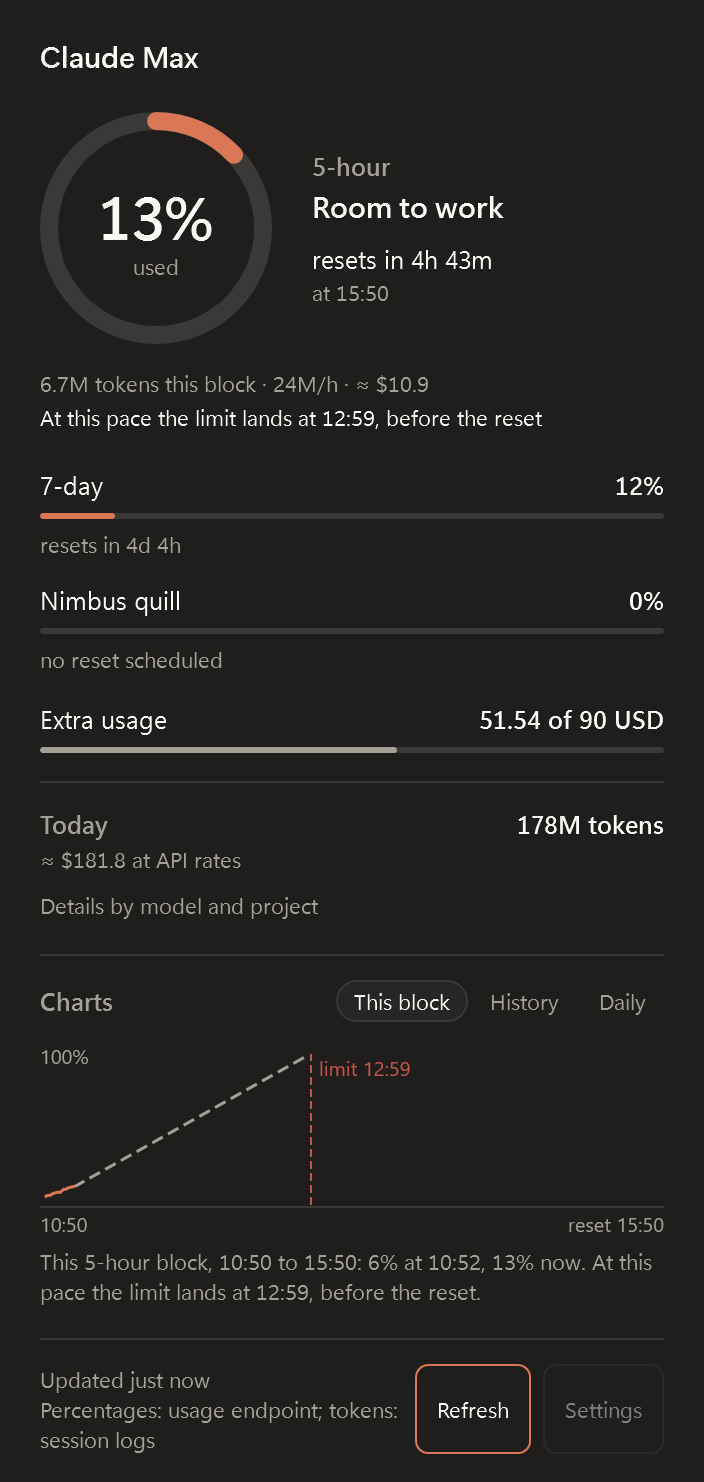
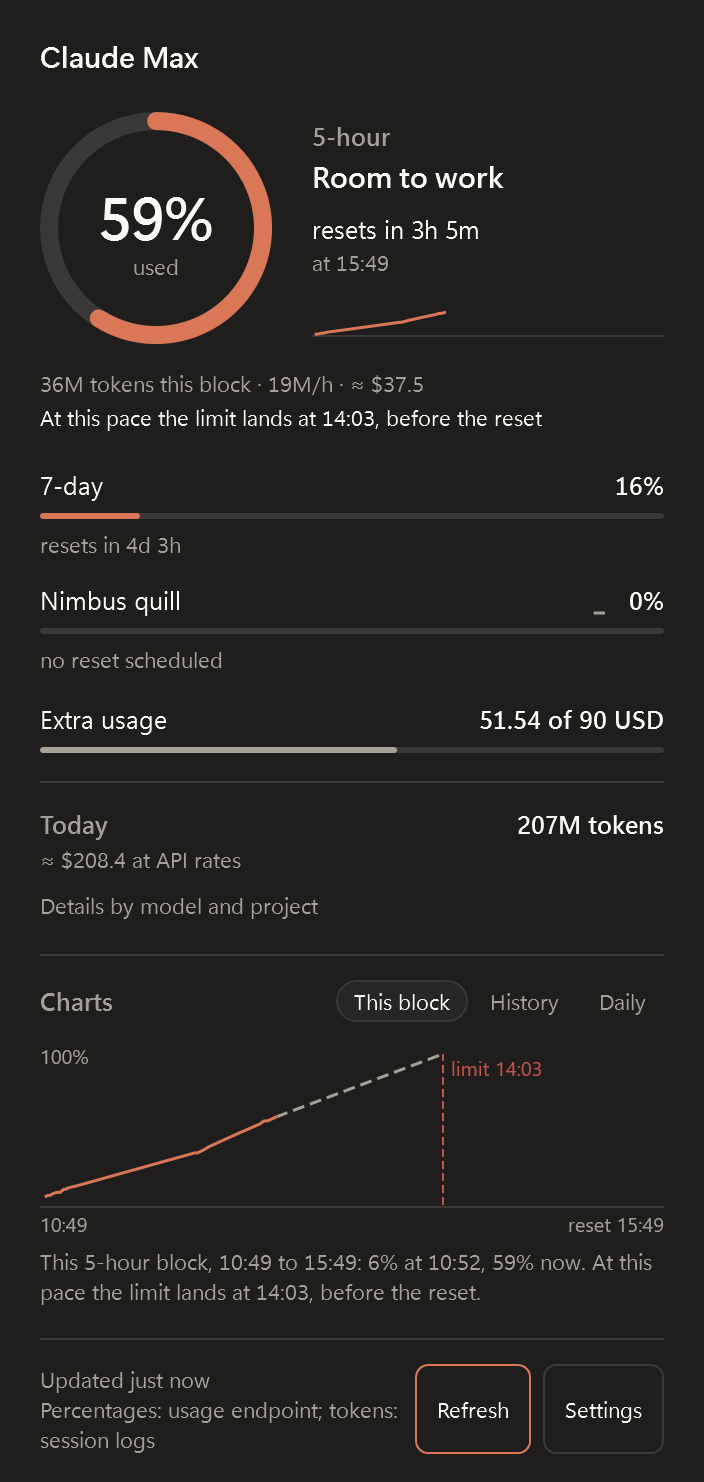
docs: v0.1.0 changelog, release procedure, refreshed screenshots and diagrams
README install section points at the Releases page with the exact zip names and SHA256 verification; status says all eight milestones are complete. CHANGELOG gains the 0.1.0 section with compare and tag links. CLAUDE.md documents the release commands, the tagging procedure and two new fragilities (IL3000 in single-file publish, GetFolderPath ignoring the profile variables). The data-flow diagram now shows what actually writes the cache and history.db, and the components diagram includes the WPF test project. Flyout and settings screenshots re-captured; the icon sheets were byte-identical.

diff --git a/CLAUDE.md b/CLAUDE.md
@@ -22,12 +22,17 @@ dotnet run --project src/ClaudeTrayApp -- --probe    # one live fetch, redacted 
 dotnet run --project src/ClaudeTrayApp -- --render-icons out/icons   # tray icon contact sheets (PNG) for a legibility check
 dotnet run --project src/ClaudeTrayApp -- --capture-flyout out/flyout.png   # opens the flyout after the first poll, screenshots it, exits
 dotnet run --project src/ClaudeTrayApp -- --capture-settings out/settings.png   # opens the settings window, screenshots it, exits
-dotnet publish src/ClaudeTrayApp -c Release -r win-x64 -o artifacts/publish/win-x64
-dotnet publish src/ClaudeTrayApp -c Release -r win-arm64 -o artifacts/publish/win-arm64
+dotnet publish src/ClaudeTrayApp -c Release -r win-x64 -o artifacts/publish/win-x64 -p:Version=0.1.0
+dotnet publish src/ClaudeTrayApp -c Release -r win-arm64 -o artifacts/publish/win-arm64 -p:Version=0.1.0
+git tag -a v0.1.0 -m "Claude Usage Tray 0.1.0" && git push origin v0.1.0   # release: see the Release section
+gh run watch <run id> --exit-status                                       # CI or release run; ids from `gh run list`
+gh release view v0.1.0                                                    # both zips and SHA256SUMS.txt attached
 ```
 
 Run from the repo root: `global.json` pins the 9.0.3xx SDK band because dev machines may default to a newer preview SDK.
-Publish output is a single self-contained, ReadyToRun exe (about 62 MB); `artifacts/` is git-ignored.
+Publish output is a single self-contained, ReadyToRun exe (about 65 MB on x64, 61 MB on Arm64) plus `pricing.json`;
+`artifacts/` is git-ignored. Publish locally before tagging: CI builds framework-dependent and never runs the
+single-file analysers, which are errors in Release (IL3000 broke the publish once without CI noticing).
 
 ## Layout
 
@@ -36,7 +41,7 @@ Publish output is a single self-contained, ReadyToRun exe (about 62 MB); `artifa
 - `src/ClaudeTrayApp.Core/` `Domain/` (snapshot, windows, humaniser), `Credentials/`, `Providers/` (OAuth endpoint, parser), `Polling/` (state machine, poller), `Cache/`, `Analytics/` (JSONL line parser, incremental scanner, provider with watcher, calculator), `Storage/` (SQLite store: events, scan offsets, history), `Pricing/` (`pricing.json` loader, table, reloadable provider), `History/` (recorder, retention), `Aggregation/`, `Account/`, `Settings/` (settings model and hot-reloading store), `Notifications/` (threshold notifier), `Security/` (redactor), `Diagnostics/`, `ClaudeCode/` (version detection). No UI references, ever.
 - `tests/ClaudeTrayApp.Core.Tests/` xunit.v3 + Shouldly + NSubstitute. Fixture files with fake tokens and synthetic sessions only.
 - `docs/` `architecture.md`, `data-sources.md`, `diagrams/` (Mermaid sources), `screenshots/`.
-- `.github/` `workflows/ci.yml` (build, test, format), `workflows/release.yml` (M8), Dependabot, issue templates.
+- `.github/` `workflows/ci.yml` (build, test, format), `workflows/release.yml` (tag `v*`: publish both RIDs, zip, `SHA256SUMS.txt`, GitHub release), `release/` (the zip's `README.txt` and the release-notes template), Dependabot, issue templates.
 - `Directory.Build.props` shared MSBuild settings. `Directory.Packages.props` every package version. `global.json` SDK pin.
 
 ## Architecture
@@ -72,6 +77,14 @@ Publish output is a single self-contained, ReadyToRun exe (about 62 MB); `artifa
 - Accessibility is part of done: keyboard navigation, `AutomationProperties` on every control, contrast at least 4.5:1, never colour alone.
 - Settings apply the moment they change; the settings window holds no unsaved state and only `SettingsStore` writes settings.json. Start with Windows lives in the registry, not in the file.
 
+## Release
+
+- The version comes from the tag: `vX.Y.Z[-pre]` becomes `dotnet publish -p:Version=X.Y.Z[-pre]`, so the assembly and file version, the About dialog and the first log line all report the tag's version. `VersionPrefix` in `Directory.Build.props` is only what local builds report; bump it together with the CHANGELOG so `dotnet run` and the next tag agree.
+- Procedure: `main` green (`gh run watch`), `CHANGELOG.md` has a `## [X.Y.Z] - date` section (the workflow copies it into the release body) and its compare links updated, `dotnet publish` passes locally, then `git tag -a vX.Y.Z -m "Claude Usage Tray X.Y.Z"` and `git push origin vX.Y.Z`. Watch the run with `gh run watch <id> --exit-status` and check `gh release view vX.Y.Z` for both zips and `SHA256SUMS.txt`.
+- The workflow builds and tests like CI, publishes win-x64 and win-arm64, zips each publish folder with `LICENSE.txt` and `.github/release/README.txt` as `ClaudeUsageTray-X.Y.Z-win-<arch>.zip`, writes `SHA256SUMS.txt` (`sha256sum` format, lowercase) and creates the release from `.github/release/notes-template.md` (disclaimer, checksums, CHANGELOG section, GitHub's generated notes) with `gh` from the runner under `contents: write`. A tag that is not `v<major>.<minor>.<patch>[-prerelease]` fails the first step; a prerelease suffix marks the release as a pre-release.
+- A failed run can be re-run, or the tag deleted and re-created after a fix on `main`; the workflow replaces the assets and notes of an existing release instead of failing. Never delete a tag someone may already have fetched for anything but a broken release.
+- The exe is unsigned; SmartScreen may prompt once. Code signing and winget are out of scope until asked for.
+
 ## Known fragilities
 
 - `GET https://api.anthropic.com/api/oauth/usage` is undocumented. Its shape can change and it rate-limits aggressively. The `User-Agent: claude-code/<version>` header matters; without it requests land in a throttled bucket.
@@ -84,6 +97,8 @@ Publish output is a single self-contained, ReadyToRun exe (about 62 MB); `artifa
 - H.NotifyIcon.Wpf 2.4 dropped net9.0-windows; stay on 2.3.x (Dependabot is told so). Its `IconSource` path rejects `RenderTargetBitmap`, so the tray icon is converted to a `System.Drawing.Icon` by `IconConverter` and set through `TaskbarIcon.Icon`.
 - The tray icon is rendered at the system DPI (16/20/24/32 px). Per-monitor DPI for the taskbar is not tracked; a DPI change triggers a redraw through `SystemEvents.DisplaySettingsChanged`.
 - The Run entry points at `Environment.ProcessPath`; after the executable moves, Start with Windows reads as off until toggled again. Notifications use H.NotifyIcon's `ShowNotification`, which Windows may suppress under Focus assist.
+- Single-file publish runs the IL3000 family of analysers with warnings as errors: `Assembly.Location` is empty in a single-file app and fails the publish. Use `Environment.ProcessPath` or `AppContext.BaseDirectory`.
+- `Environment.GetFolderPath` ignores the `LOCALAPPDATA`, `APPDATA` and `USERPROFILE` variables (it asks the shell). `AppPaths.FromEnvironment` reads the variables first when they hold rooted paths, so a run can be pointed at a fresh profile for testing; that is how the not-signed-in, expired-token and offline states were verified against the published exe.
 
 ## Before you start
 
@@ -94,4 +109,4 @@ Publish output is a single self-contained, ReadyToRun exe (about 62 MB); `artifa
 
 ## Milestones
 
-M1 scaffold (done) · M2 core domain, OAuth provider, cache, backoff (done, live probe verified 2026-09-07) · M3 tray icon (done) · M4 flyout (done) · M5 JSONL analytics, history, aggregation (done) · M6 charts (done) · M7 settings, autostart, notifications, single instance (done) · M8 release pipeline, docs, v0.1.0
+M1 scaffold (done) · M2 core domain, OAuth provider, cache, backoff (done, live probe verified 2026-09-07) · M3 tray icon (done) · M4 flyout (done) · M5 JSONL analytics, history, aggregation (done) · M6 charts (done) · M7 settings, autostart, notifications, single instance (done) · M8 release pipeline, docs, v0.1.0 (done, released 2026-09-07)

diff --git a/docs/architecture.md b/docs/architecture.md
@@ -9,7 +9,7 @@ arithmetic lives in `ClaudeTrayApp.Core`; the WPF project only composes, binds a
 |---|---|---|
 | Providers | Core | Turn a data source into a `UsageSnapshot` (OAuth endpoint) or local analytics (JSONL logs). Know about transport, never about UI. |
 | Aggregator | Core | Merge provider outputs, label the source of every field, decide the stale and unavailable states. Never fabricates a percentage. |
-| History store | Core | SQLite time series of snapshots and daily token/cost rollups, plus JSONL scan offsets and retention pruning. |
+| History store | Core | SQLite time series of snapshots, the deduplicated usage events from the session logs (daily and per-model totals are SQL aggregates over them), JSONL scan offsets and retention pruning. |
 | ViewModels | App | Observable adapters over aggregated data via CommunityToolkit.Mvvm source generators. Countdown text and number formatting live here. |
 | Views | App | XAML bound to viewmodels. Colours, brushes and fonts come from `Theme.xaml` tokens only. |
 
@@ -18,13 +18,15 @@ H.NotifyIcon; `tests/ClaudeTrayApp.Core.Tests/CoreArchitectureTests.cs` fails th
 
 ## Runtime folders
 
-All paths are resolved by `AppPaths` from environment folders. Nothing is hardcoded to a user, and
+All paths are resolved by `AppPaths` from the environment: `LOCALAPPDATA`, `APPDATA` and `USERPROFILE` when the
+process has them set to rooted paths, the shell's known folders otherwise (`Environment.GetFolderPath` ignores the
+variables, so a run pointed at a fresh profile needs this order). Nothing is hardcoded to a user, and
 `CLAUDE_CONFIG_DIR` relocates the Claude Code home exactly as it does for Claude Code.
 
 | Path | Content |
 |---|---|
 | `%LOCALAPPDATA%\ClaudeTrayApp\cache.json` | Last successful snapshot. Never contains a token. |
-| `%LOCALAPPDATA%\ClaudeTrayApp\history.db` | SQLite history, daily rollups, JSONL scan offsets. |
+| `%LOCALAPPDATA%\ClaudeTrayApp\history.db` | SQLite: snapshot series per window, deduplicated usage events, JSONL scan offsets. |
 | `%LOCALAPPDATA%\ClaudeTrayApp\logs\` | Rolling daily logs, seven days, five MB each. Tokens redacted. |
 | `%APPDATA%\ClaudeTrayApp\settings.json` | User settings, hot-reloaded. |
 | `%USERPROFILE%\.claude\` | Claude Code home. Read-only for this app. |
@@ -45,10 +47,11 @@ flowchart LR
     end
 
     subgraph core [ClaudeTrayApp.Core]
-        OAUTH["OAuth usage provider<br/>GET /api/oauth/usage<br/>300 s poll, 180 s floor, backoff on 429"]
+        OAUTH["OAuth usage provider + poller<br/>GET /api/oauth/usage<br/>300 s poll, 180 s floor, backoff on 429"]
         LOCAL["JSONL analytics provider<br/>incremental scan, dedupe by message id"]
+        CALC["AnalyticsCalculator<br/>today, top projects, 5-hour block, priced"]
         AGG["UsageAggregator<br/>percentages from OAuth (authoritative)<br/>tokens, cost, burn rate from JSONL"]
-        HIST[("History store<br/>SQLite: snapshots, daily rollups, scan offsets")]
+        HIST[("history.db<br/>SQLite: snapshot series, usage events, scan offsets")]
         CACHE[("cache.json<br/>last snapshot, no token")]
     end
 
@@ -60,12 +63,14 @@ flowchart LR
 
     CRED --> OAUTH
     JSONL --> LOCAL
-    PRICE --> LOCAL
+    PRICE --> CALC
+    OAUTH -->|every fresh snapshot| HIST
+    OAUTH --> CACHE
+    CACHE -.->|on launch| OAUTH
+    LOCAL -->|events, offsets| HIST
+    HIST --> CALC
     OAUTH -->|UsageSnapshot| AGG
-    LOCAL -->|LocalAnalytics| AGG
-    AGG --> HIST
-    AGG --> CACHE
-    CACHE -.->|on launch| AGG
+    CALC -->|LocalAnalytics| AGG
     AGG --> VM
     HIST -->|chart series| VM
     VM --> TRAY
@@ -100,20 +105,22 @@ stateDiagram-v2
 flowchart TB
     APP["ClaudeTrayApp (WPF, net9.0-windows)<br/>composition root, views, viewmodels, Theme.xaml"]
     CORE["ClaudeTrayApp.Core (net9.0)<br/>domain, providers, aggregator, parsing, pricing, history"]
-    TESTS["ClaudeTrayApp.Core.Tests (xunit.v3)<br/>fixtures with fake tokens only"]
+    TESTS["ClaudeTrayApp.Core.Tests (xunit.v3, net9.0)<br/>fixtures with fake tokens only"]
+    APPTESTS["ClaudeTrayApp.Tests (xunit.v3, net9.0-windows)<br/>tray state, renderer pixels, chart builders, viewmodels"]
 
     UI["WPF, H.NotifyIcon.Wpf, CommunityToolkit.Mvvm"]
     BCL["Microsoft.Extensions.*, Microsoft.Data.Sqlite,<br/>System.Text.Json"]
 
     APP --> CORE
     TESTS --> CORE
+    APPTESTS --> APP
     APP --> UI
     APP --> BCL
     CORE --> BCL
 
     classDef forbidden stroke-dasharray: 5 5
     CORE -. "never" .-> UI
-    linkStyle 5 stroke-dasharray: 5 5
+    linkStyle 6 stroke-dasharray: 5 5
 ```
 
 ### Launch sequence
@@ -153,12 +160,26 @@ sequenceDiagram
 
 ## Status
 
-Milestones 1 to 7 are delivered: solution layout, build settings, CI, `AppPaths`, the composition root with file
-logging and crash logging, the usage domain, credential discovery, the OAuth usage provider, the polling state
-machine, the snapshot cache (verified against the live endpoint), theme tokens with dark and light palettes, the
-generated tray icon with its context menu, the flyout, the local analytics pipeline with the SQLite history store
-and the aggregator, the charts, and settings with threshold notifications, autostart and single instance. The
-release pipeline arrives in milestone 8.
+All eight milestones are delivered and v0.1.0 (2026-09-07) is the first release: solution layout, build settings,
+CI, `AppPaths`, the composition root with file logging and crash logging, the usage domain, credential discovery,
+the OAuth usage provider, the polling state machine, the snapshot cache (verified against the live endpoint), theme
+tokens with dark and light palettes, the generated tray icon with its context menu, the flyout, the local analytics
+pipeline with the SQLite history store and the aggregator, the charts, settings with threshold notifications,
+autostart and single instance, and the release pipeline below. Later versions are cut by pushing a `v*` tag.
+
+## Release pipeline
+
+`.github/workflows/release.yml` runs on a pushed `v*` tag on a Windows runner: the same pinned checkout and .NET
+setup as CI, restore, build with warnings as errors, tests, then `dotnet publish` for win-x64 and win-arm64 with
+`-p:Version=<tag without the v>`, so the assembly and file version, the About dialog and the first log line carry
+the tag's version (a tag that is not `v<major>.<minor>.<patch>[-prerelease]` fails the first step). Each publish
+folder (the single-file, self-contained, ReadyToRun, untrimmed exe: about 65 MB on x64 and 61 MB on Arm64, plus
+`pricing.json`) is zipped with `LICENSE.txt` and `.github/release/README.txt` as
+`ClaudeUsageTray-<version>-win-<arch>.zip`, and `SHA256SUMS.txt` lists both in `sha256sum` format. The release body
+is `.github/release/notes-template.md` with the disclaimer, the checksums, the CHANGELOG section for the version
+and GitHub's generated notes filled in; `gh` from the runner (`contents: write`) creates the release with the three
+files attached, or replaces the assets and notes of an existing release when the job is re-run. The zips are also
+kept as a workflow artifact. The exe is not code-signed.
 
 ## Local analytics pipeline
 

diff --git a/README.md b/README.md
@@ -10,11 +10,12 @@ local token/cost analytics.
 > **Unofficial tool.** Claude Usage Tray is a community project. It is not affiliated with, endorsed by, or supported
 > by Anthropic. It relies on an undocumented endpoint that can change or stop working at any time.
 
-> **Status: pre-release, under construction.** Milestones 1 to 7 of 8 are complete: solution scaffold, CI, docs,
-> the data layer (credential discovery, the usage endpoint provider with backoff and cache, verified live), the
-> generated tray icon with its context menu, the flyout, local analytics from the session logs with history, the
-> charts, and settings with notifications, autostart and single instance. The release pipeline follows next. No
-> release exists yet; see [CHANGELOG.md](CHANGELOG.md) for progress.
+> **Status: all eight milestones complete, first release v0.1.0.** Solution scaffold, CI, docs, the data layer
+> (credential discovery, the usage endpoint provider with backoff and cache, verified live), the generated tray icon
+> with its context menu, the flyout, local analytics from the session logs with history, the charts, settings with
+> notifications, autostart and single instance, and the release pipeline. Downloads are on the
+> [Releases page](https://github.com/mlcousek/claude_trayapp/releases); see [CHANGELOG.md](CHANGELOG.md) for what
+> each version contains.
 
 <p>
   <img src="docs/screenshots/flyout-dark.png" alt="The flyout: a large ring showing the 5-hour window, a plain-language status and the reset countdown; a pace line with tokens this block, tokens per hour and the API-equivalent cost; compact rows for the 7-day window and a codename window; extra usage; a Today block with tokens and cost; a Charts section with a This block, History and Daily picker showing the current block's recorded percentages, a dashed projection and the projected limit marked; footer naming the sources with Refresh and Settings" width="352">
@@ -31,8 +32,9 @@ The tray icon in every state and size, on a dark and a light taskbar (native ren
 
 ## What it shows
 
-- **Tray icon.** A ring-arc progress indicator around a compact numeral for the window you choose, colour-coded green
-  to amber to red, redrawn live and legible at 16 px on light and dark taskbars. The tooltip is a one-line summary.
+- **Tray icon.** A ring-arc progress indicator around a compact numeral for the window you choose, coloured in the
+  Claude accent (terracotta) while there is headroom and turning amber, then red, as the window fills; redrawn live
+  and legible at 16 px on light and dark taskbars. The tooltip is a one-line summary.
 - **Flyout (left-click).** Plan tier and masked account email; the 5-hour window as a large ring with a sparkline
   of the block so far; one compact row per other window with percent, thin bar, sparkline and "resets in 1h 26m";
   extra-usage balance when present; burn rate and projection for the current five-hour block; today's tokens and
@@ -53,10 +55,29 @@ The tray icon in every state and size, on a dark and a light taskbar (native ren
 
 ## Install
 
-1. Download `ClaudeUsageTray-<version>-win-x64.zip` (or `win-arm64`) from the Releases page (available from v0.1.0).
-2. Compare the SHA256 with the checksum listed in the release notes.
-3. Unzip anywhere and run `ClaudeTrayApp.exe`. There is no installer and no admin prompt.
+1. Download the zip for your machine from the [Releases page](https://github.com/mlcousek/claude_trayapp/releases):
+   `ClaudeUsageTray-<version>-win-x64.zip` for x64 or `ClaudeUsageTray-<version>-win-arm64.zip` for Arm64, for
+   example `ClaudeUsageTray-0.1.0-win-x64.zip`.
+2. Verify the download. Every release lists the SHA256 of each zip in its notes and attaches the same list as
+   `SHA256SUMS.txt`. Compute yours and compare:
+
+   ```powershell
+   Get-FileHash .\ClaudeUsageTray-0.1.0-win-x64.zip -Algorithm SHA256
+   ```
+
+   or, in Command Prompt:
+
+   ```bat
+   certutil -hashfile ClaudeUsageTray-0.1.0-win-x64.zip SHA256
+   ```
+
+3. Unzip anywhere and run `ClaudeTrayApp.exe`. The zip holds the app (one self-contained exe), `pricing.json`,
+   `LICENSE.txt` and a short `README.txt`; keep the exe and `pricing.json` together. There is no installer and no
+   admin prompt. The exe is not code-signed, so SmartScreen may ask once: choose **More info**, then **Run anyway**.
 4. Optional: right-click the tray icon and choose **Start with Windows**.
+
+Each release is built by the [release workflow](.github/workflows/release.yml) from the tagged commit; the same
+zips are attached to the workflow run as an artifact.
 
 From source (needs the .NET 9 SDK):
 
@@ -150,10 +171,11 @@ flowchart LR
     end
 
     subgraph core [ClaudeTrayApp.Core]
-        OAUTH["OAuth usage provider<br/>GET /api/oauth/usage<br/>300 s poll, 180 s floor, backoff on 429"]
+        OAUTH["OAuth usage provider + poller<br/>GET /api/oauth/usage<br/>300 s poll, 180 s floor, backoff on 429"]
         LOCAL["JSONL analytics provider<br/>incremental scan, dedupe by message id"]
+        CALC["AnalyticsCalculator<br/>today, top projects, 5-hour block, priced"]
         AGG["UsageAggregator<br/>percentages from OAuth (authoritative)<br/>tokens, cost, burn rate from JSONL"]
-        HIST[("History store<br/>SQLite: snapshots, daily rollups, scan offsets")]
+        HIST[("history.db<br/>SQLite: snapshot series, usage events, scan offsets")]
         CACHE[("cache.json<br/>last snapshot, no token")]
     end
 
@@ -165,12 +187,14 @@ flowchart LR
 
     CRED --> OAUTH
     JSONL --> LOCAL
-    PRICE --> LOCAL
+    PRICE --> CALC
+    OAUTH -->|every fresh snapshot| HIST
+    OAUTH --> CACHE
+    CACHE -.->|on launch| OAUTH
+    LOCAL -->|events, offsets| HIST
+    HIST --> CALC
     OAUTH -->|UsageSnapshot| AGG
-    LOCAL -->|LocalAnalytics| AGG
-    AGG --> HIST
-    AGG --> CACHE
-    CACHE -.->|on launch| AGG
+    CALC -->|LocalAnalytics| AGG
     AGG --> VM
     HIST -->|chart series| VM
     VM --> TRAY

diff --git a/CHANGELOG.md b/CHANGELOG.md
@@ -6,8 +6,13 @@ All notable changes to this project are documented here. The format follows
 
 ## [Unreleased]
 
+## [0.1.0] - 2026-09-07
+
+First release. Everything below is new in this version.
+
 ### Added
 
+- Release workflow (`.github/workflows/release.yml`) on `v*` tags: builds and tests the tagged commit, publishes the self-contained single-file exe for win-x64 and win-arm64 with the version taken from the tag, zips each with `pricing.json`, `LICENSE.txt` and a short `README.txt` as `ClaudeUsageTray-<version>-win-<arch>.zip`, writes `SHA256SUMS.txt` and creates the GitHub release with the checksums, this file's section for the version and the generated notes in its body. A re-run for an existing release replaces its assets and notes.
 - Settings window (tray menu, or the Settings button in the flyout) backed by `%APPDATA%\ClaudeTrayApp\settings.json`, written with defaults on first run and hot-reloaded: poll interval (floor 180 s, applied to the wait in progress), the window shown in the tray icon, history chart range, history retention with a Clear history action, threshold notifications (off by default, each threshold once per window and period), show or hide local analytics, mask email, theme override, pricing file path. A file that does not parse is left untouched and reported.
 - Start with Windows: an opt-in, per-user Run entry, toggled from the tray menu (checkable) or the Settings window.
 - One instance per session: a second launch opens the running instance's flyout and exits.
@@ -40,8 +45,14 @@ All notable changes to this project are documented here. The format follows
 - CI workflow (build, test, format check on Windows), Dependabot, issue templates.
 - Documentation: `CLAUDE.md`, `docs/architecture.md`, `docs/data-sources.md`, Mermaid diagrams.
 
+### Changed
+
+- `AppPaths` honours `LOCALAPPDATA`, `APPDATA` and `USERPROFILE` when the process has them set to rooted paths, falling back to the shell's known folders otherwise, so a run can be pointed at a fresh profile (used to verify the not-signed-in, expired-token and offline states against the published exe).
+
 ### Fixed
 
+- Single-file publish failed with IL3000: the Start with Windows wiring fell back to `Assembly.Location`, which is empty in a single-file app. It now falls back to the exe next to `AppContext.BaseDirectory`.
 - Core awaits use `ConfigureAwait(false)` and the host starts and stops off the UI thread, so quitting no longer waits five seconds for the polling loop.
 
-[Unreleased]: https://github.com/mlcousek/claude_trayapp/compare/0c88ac1...HEAD
+[Unreleased]: https://github.com/mlcousek/claude_trayapp/compare/v0.1.0...HEAD
+[0.1.0]: https://github.com/mlcousek/claude_trayapp/releases/tag/v0.1.0

diff --git a/docs/diagrams/data-flow.md b/docs/diagrams/data-flow.md
@@ -1,6 +1,6 @@
 # Data flow
 
-Credential discovery feeds the OAuth provider; Claude Code session logs feed the local analytics provider. The aggregator merges both, persists to cache and history, and the tray icon and flyout render from the merged result.
+Credential discovery feeds the OAuth provider, whose poller writes every fresh snapshot to the cache and, through the history recorder, to `history.db`. Claude Code session logs feed the local analytics provider, which stores deduplicated usage events and scan offsets in the same database; the calculator prices them on demand. The aggregator merges the two halves for the view models, and the tray icon and flyout render from the merged result.
 
 ```mermaid
 flowchart LR
@@ -11,10 +11,11 @@ flowchart LR
     end
 
     subgraph core [ClaudeTrayApp.Core]
-        OAUTH["OAuth usage provider<br/>GET /api/oauth/usage<br/>300 s poll, 180 s floor, backoff on 429"]
+        OAUTH["OAuth usage provider + poller<br/>GET /api/oauth/usage<br/>300 s poll, 180 s floor, backoff on 429"]
         LOCAL["JSONL analytics provider<br/>incremental scan, dedupe by message id"]
+        CALC["AnalyticsCalculator<br/>today, top projects, 5-hour block, priced"]
         AGG["UsageAggregator<br/>percentages from OAuth (authoritative)<br/>tokens, cost, burn rate from JSONL"]
-        HIST[("History store<br/>SQLite: snapshots, daily rollups, scan offsets")]
+        HIST[("history.db<br/>SQLite: snapshot series, usage events, scan offsets")]
         CACHE[("cache.json<br/>last snapshot, no token")]
     end
 
@@ -26,12 +27,14 @@ flowchart LR
 
     CRED --> OAUTH
     JSONL --> LOCAL
-    PRICE --> LOCAL
+    PRICE --> CALC
+    OAUTH -->|every fresh snapshot| HIST
+    OAUTH --> CACHE
+    CACHE -.->|on launch| OAUTH
+    LOCAL -->|events, offsets| HIST
+    HIST --> CALC
     OAUTH -->|UsageSnapshot| AGG
-    LOCAL -->|LocalAnalytics| AGG
-    AGG --> HIST
-    AGG --> CACHE
-    CACHE -.->|on launch| AGG
+    CALC -->|LocalAnalytics| AGG
     AGG --> VM
     HIST -->|chart series| VM
     VM --> TRAY

diff --git a/docs/diagrams/components.md b/docs/diagrams/components.md
@@ -6,18 +6,20 @@ Projects and their dependency direction. Core has no UI dependency; `CoreArchite
 flowchart TB
     APP["ClaudeTrayApp (WPF, net9.0-windows)<br/>composition root, views, viewmodels, Theme.xaml"]
     CORE["ClaudeTrayApp.Core (net9.0)<br/>domain, providers, aggregator, parsing, pricing, history"]
-    TESTS["ClaudeTrayApp.Core.Tests (xunit.v3)<br/>fixtures with fake tokens only"]
+    TESTS["ClaudeTrayApp.Core.Tests (xunit.v3, net9.0)<br/>fixtures with fake tokens only"]
+    APPTESTS["ClaudeTrayApp.Tests (xunit.v3, net9.0-windows)<br/>tray state, renderer pixels, chart builders, viewmodels"]
 
     UI["WPF, H.NotifyIcon.Wpf, CommunityToolkit.Mvvm"]
     BCL["Microsoft.Extensions.*, Microsoft.Data.Sqlite,<br/>System.Text.Json"]
 
     APP --> CORE
     TESTS --> CORE
+    APPTESTS --> APP
     APP --> UI
     APP --> BCL
     CORE --> BCL
 
     classDef forbidden stroke-dasharray: 5 5
     CORE -. "never" .-> UI
-    linkStyle 5 stroke-dasharray: 5 5
+    linkStyle 6 stroke-dasharray: 5 5
 ```

diff --git a/CONTRIBUTING.md b/CONTRIBUTING.md
@@ -34,6 +34,7 @@ Those three commands are exactly what CI runs. If they pass locally they pass in
 - Keep commits small and reviewable. Do not commit generated artifacts, user data, screenshots containing an account email, or anything from `~/.claude`.
 - Update `CLAUDE.md`, `docs/` and the Mermaid diagrams whenever you change behaviour they describe.
 - Add a line under `[Unreleased]` in `CHANGELOG.md`.
+- Releases are cut by the maintainer: a `v<major>.<minor>.<patch>` tag pushed from a green `main` runs the release workflow, which publishes, zips, checksums and publishes the GitHub release (see the Release section of `CLAUDE.md`).
 
 ## Reporting bugs
 
